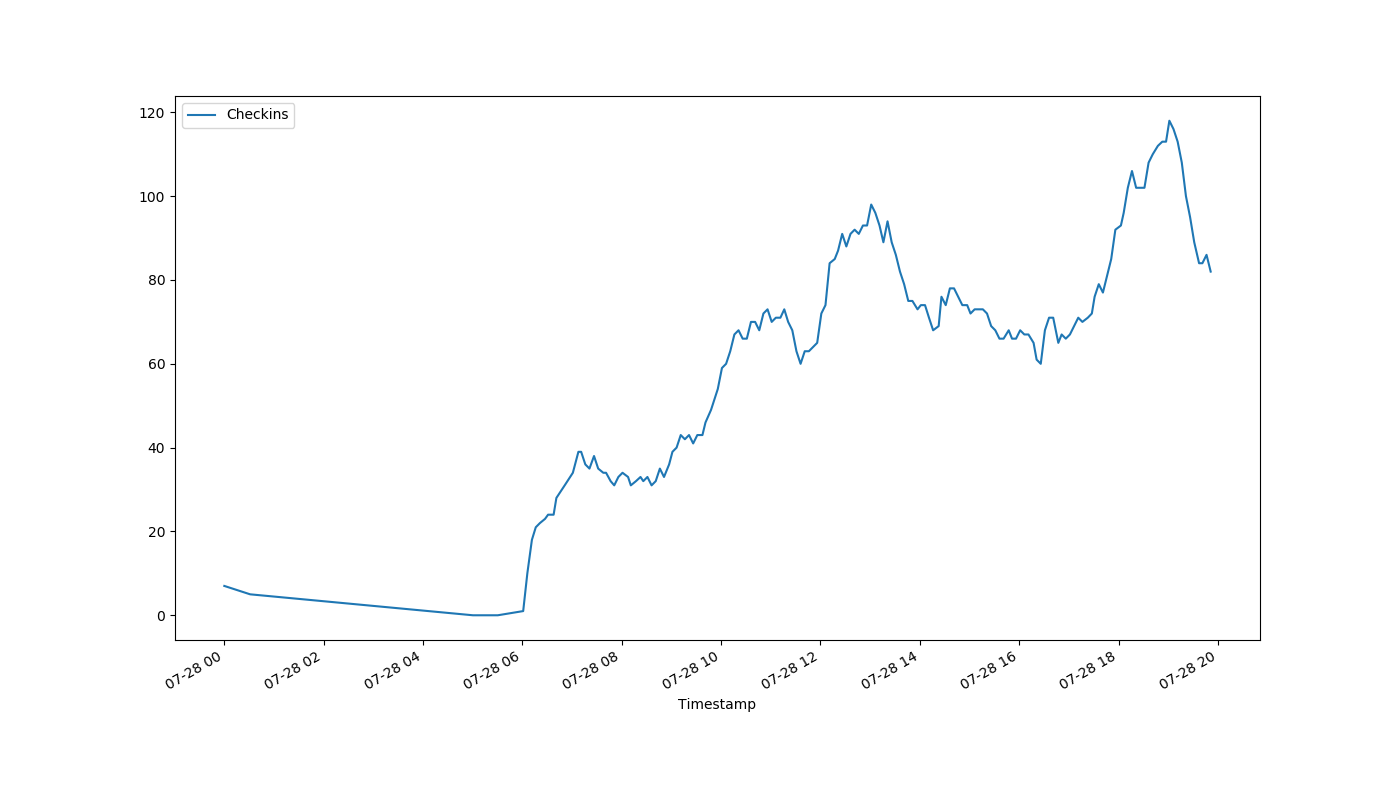
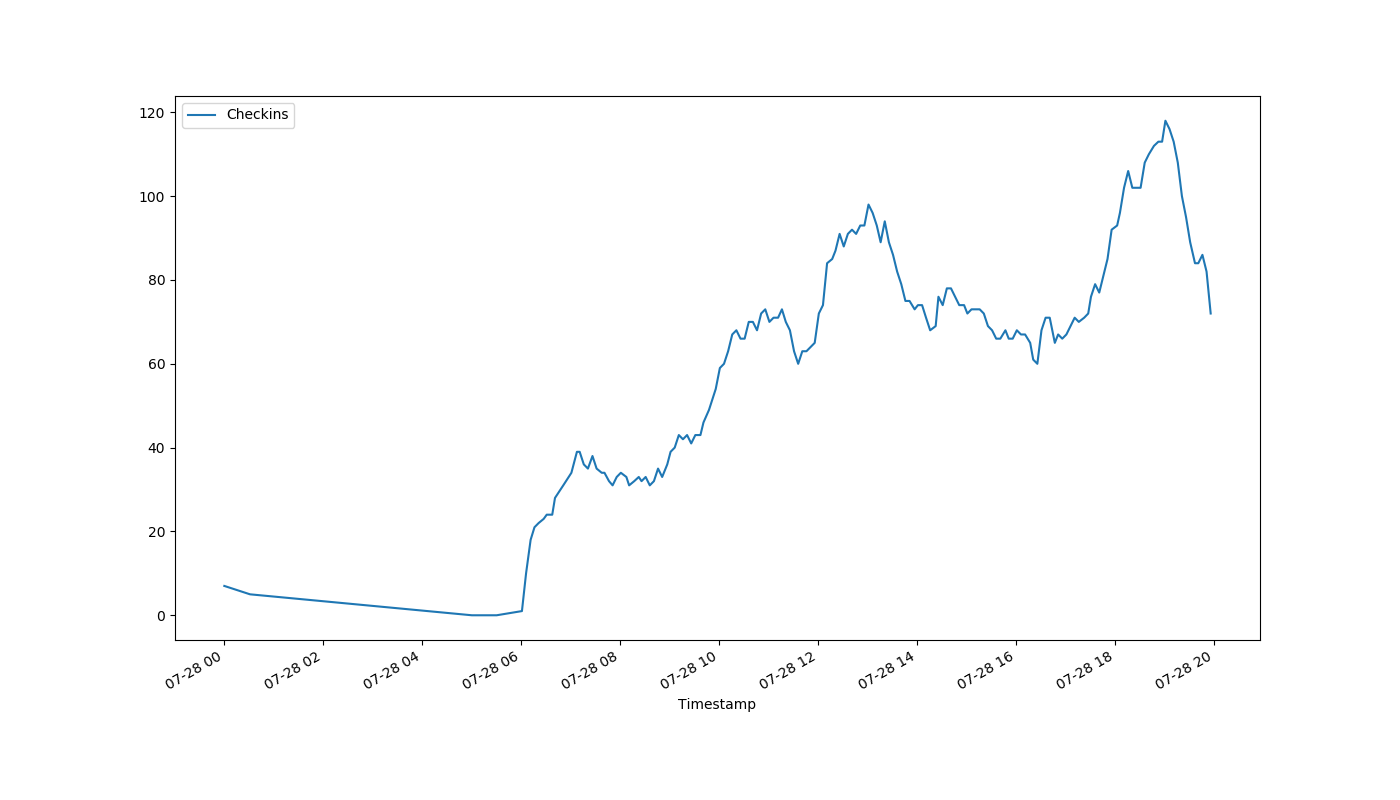
auto-Jul-28-19:58:24

diff --git a/index.html b/index.html
@@ -1,1 +1,1 @@
-<!DOCTYPE html><html><head><meta http-equiv="refresh" content="30"><link rel='stylesheet' href='holmcurrent.css'></head><body><p id='count'>82</p><div id='graph-wrap'><img id='graph' src='holmgraph-Jul-28.png'></div><p id='updated'>Last updated 19:52:00 / 19:51:11</p></body></html>
+<!DOCTYPE html><html><head><meta http-equiv="refresh" content="30"><link rel='stylesheet' href='holmcurrent.css'></head><body><p id='count'>72</p><div id='graph-wrap'><img id='graph' src='holmgraph-Jul-28.png'></div><p id='updated'>Last updated 19:57:00 / 19:56:11</p></body></html>
